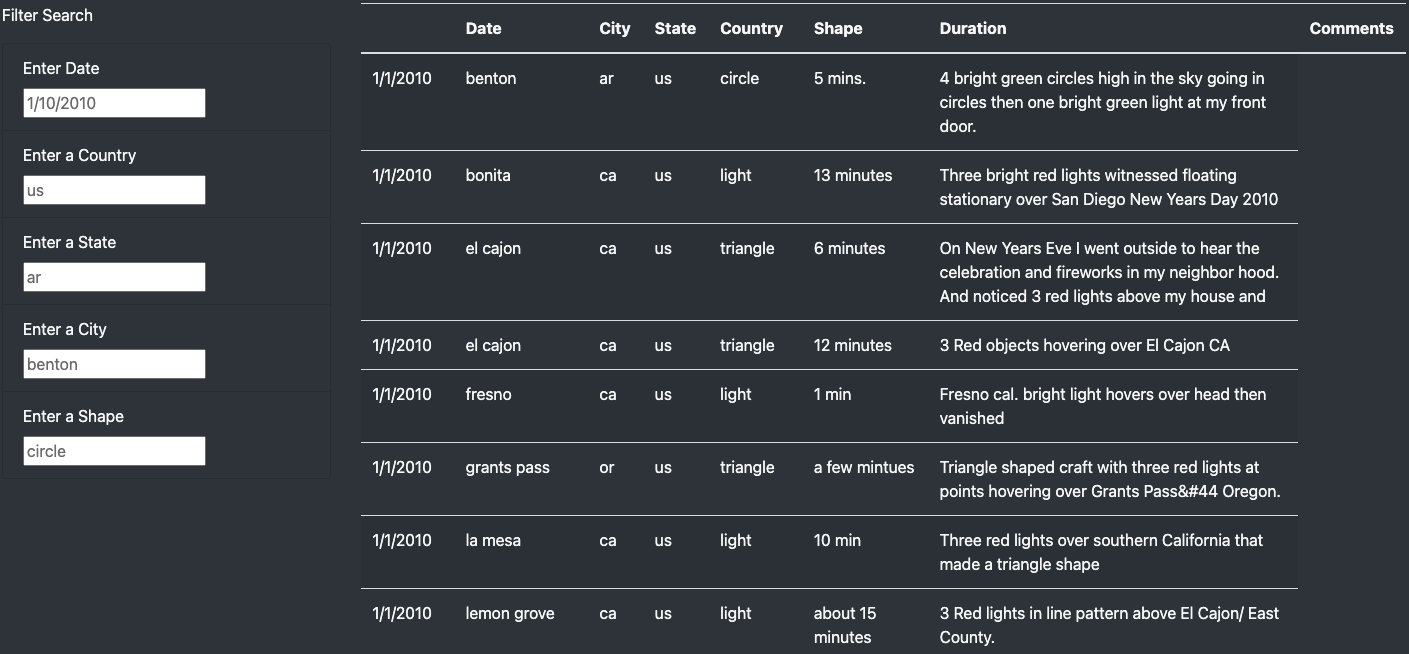
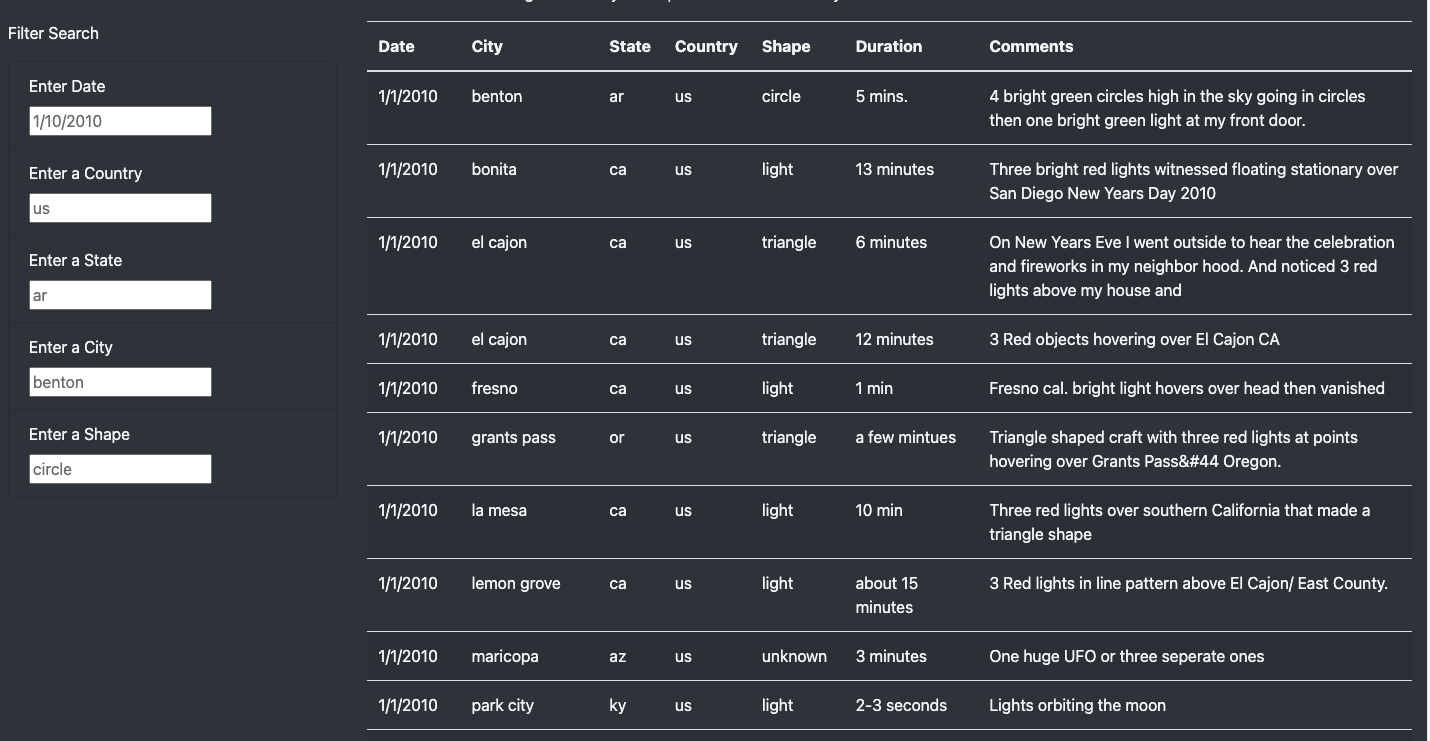
fixing errors before submitting

diff --git a/static/index.html b/static/index.html
@@ -78,7 +78,6 @@
                 <table class="table table-striped">
                         <thead>
                             <tr>
-                            <th>
                             <th>Date</th>
                             <th>City</th>
                             <th>State</th>
@@ -86,7 +85,7 @@
                             <th>Shape</th>
                             <th>Duration</th>
                             <th>Comments</th>
-                                </th>
+                            </th>
                             </tr>
                         </thead>
                         <tbody></tbody>
